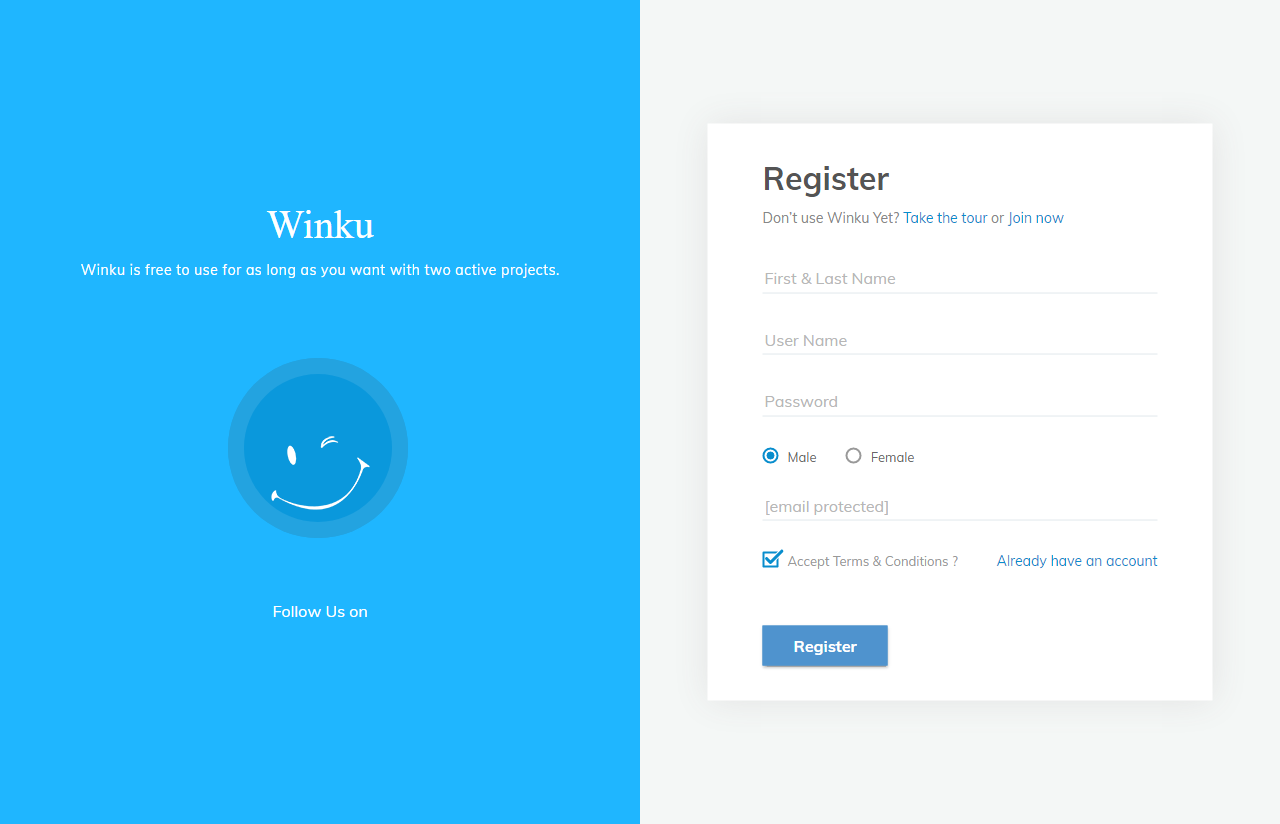
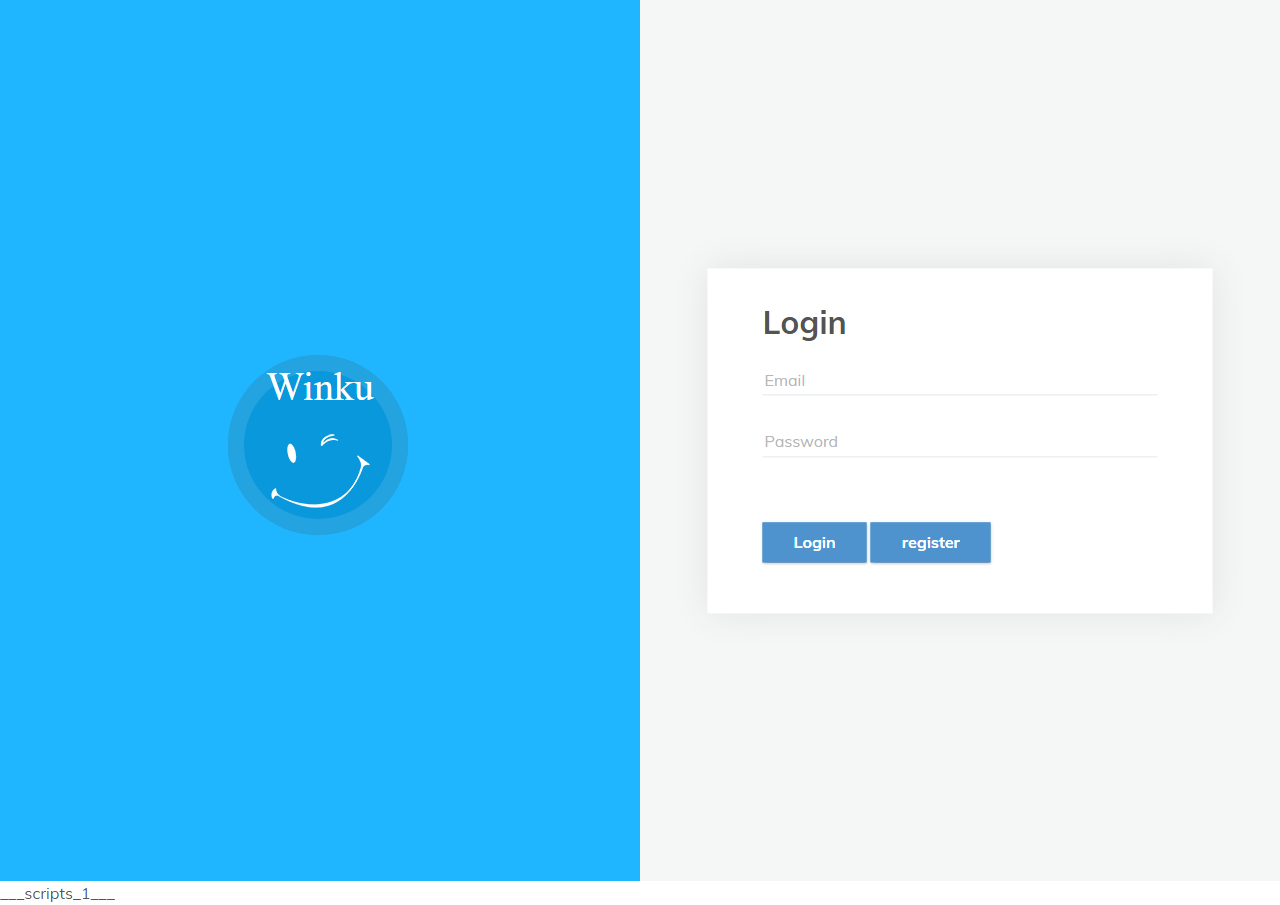
photos

diff --git a/resources/views/auth/register.blade.php b/resources/views/auth/register.blade.php
@@ -1,101 +1,3 @@
-{{-- @extends('layouts.app')
-
-@section('content')
-<div class="container">
-    <div class="row justify-content-center">
-        <div class="col-md-8">
-            <div class="card">
-                <div class="card-header">{{ __('Register') }}</div>
-
-                <div class="card-body">
-                    <form method="POST" action="{{ route('register') }}">
-                        @csrf
-
-                        <div class="row mb-3">
-                            <label for="name" class="col-md-4 col-form-label text-md-end">{{ __('Name') }}</label>
-
-                            <div class="col-md-6">
-                                <input id="name" type="text" class="form-control @error('name') is-invalid @enderror" name="name" value="{{ old('name') }}"  autocomplete="name" autofocus>
-
-                                @error('name')
-                                    <span class="invalid-feedback" role="alert">
-                                        <strong>{{ $message }}</strong>
-                                    </span>
-                                @enderror
-                            </div>
-                        </div>
-
-                        <div class="row mb-3">
-                            <label for="email" class="col-md-4 col-form-label text-md-end">{{ __('Email Address') }}</label>
-
-                            <div class="col-md-6">
-                                <input id="email" type="email" class="form-control @error('email') is-invalid @enderror" name="email" value="{{ old('email') }}"  autocomplete="email">
-
-                                @error('email')
-                                    <span class="invalid-feedback" role="alert">
-                                        <strong>{{ $message }}</strong>
-                                    </span>
-                                @enderror
-                            </div>
-                        </div>
-
-                        <div class="row mb-3">
-                            <label for="password" class="col-md-4 col-form-label text-md-end">{{ __('Password') }}</label>
-
-                            <div class="col-md-6">
-                                <input id="password" type="password" class="form-control @error('password') is-invalid @enderror" name="password"  autocomplete="new-password">
-
-                                @error('password')
-                                    <span class="invalid-feedback" role="alert">
-                                        <strong>{{ $message }}</strong>
-                                    </span>
-                                @enderror
-                            </div>
-                        </div>
-
-                        <div class="row mb-3">
-                            <label for="password-confirm" class="col-md-4 col-form-label text-md-end">{{ __('Confirm Password') }}</label>
-
-                            <div class="col-md-6">
-                                <input id="password-confirm" type="password" class="form-control" name="password_confirmation"  autocomplete="new-password">
-                            </div>
-                        </div>
-
-                        <div class="row mb-0">
-                            <div class="col-md-6 offset-md-4">
-                                <button type="submit" class="btn btn-primary">
-                                    {{ __('Register') }}
-                                </button>
-                            </div>
-                        </div>
-                    </form>
-                </div>
-            </div>
-        </div>
-    </div>
-</div>
-
-
-
-@endsection --}}
-
-
-
-
-
-
-
-
-
-
-
-
-
-
-
-
-
-
 
 <html lang="en" class=" ">
 

diff --git a/resources/views/auth/login.blade.php b/resources/views/auth/login.blade.php
@@ -1,76 +1,4 @@
-{{-- @extends('layouts.app')
 
-@section('content')
-<div class="container">
-    <div class="row justify-content-center">
-        <div class="col-md-8">
-            <div class="card">
-                <div class="card-header">{{ __('Login') }}</div>
-
-                <div class="card-body">
-                    <form method="POST" action="{{ route('login') }}">
-                        @csrf
-
-                        <div class="row mb-3">
-                            <label for="email" class="col-md-4 col-form-label text-md-end">{{ __('Email Address') }}</label>
-
-                            <div class="col-md-6">
-                                <input id="email" type="email" class="form-control @error('email') is-invalid @enderror" name="email" value="{{ old('email') }}" required autocomplete="email" autofocus>
-
-                                @error('email')
-                                    <span class="invalid-feedback" role="alert">
-                                        <strong>{{ $message }}</strong>
-                                    </span>
-                                @enderror
-                            </div>
-                        </div>
-
-                        <div class="row mb-3">
-                            <label for="password" class="col-md-4 col-form-label text-md-end">{{ __('Password') }}</label>
-
-                            <div class="col-md-6">
-                                <input id="password" type="password" class="form-control @error('password') is-invalid @enderror" name="password" required autocomplete="current-password">
-
-                                @error('password')
-                                    <span class="invalid-feedback" role="alert">
-                                        <strong>{{ $message }}</strong>
-                                    </span>
-                                @enderror
-                            </div>
-                        </div>
-
-                        <div class="row mb-3">
-                            <div class="col-md-6 offset-md-4">
-                                <div class="form-check">
-                                    <input class="form-check-input" type="checkbox" name="remember" id="remember" {{ old('remember') ? 'checked' : '' }}>
-
-                                    <label class="form-check-label" for="remember">
-                                        {{ __('Remember Me') }}
-                                    </label>
-                                </div>
-                            </div>
-                        </div>
-
-                        <div class="row mb-0">
-                            <div class="col-md-8 offset-md-4">
-                                <button type="submit" class="btn btn-primary">
-                                    {{ __('Login') }}
-                                </button>
-
-                                @if (Route::has('password.request'))
-                                    <a class="btn btn-link" href="{{ route('password.request') }}">
-                                        {{ __('Forgot Your Password?') }}
-                                    </a>
-                                @endif
-                            </div>
-                        </div>
-                    </form>
-                </div>
-            </div>
-        </div>
-    </div>
-</div>
-@endsection --}}
 <html lang="en" class=" ">
 
 <head>

diff --git a/resources/views/front/layouts/header.blade.php b/resources/views/front/layouts/header.blade.php
@@ -7,7 +7,7 @@
     <meta name="description" content="" />
     <meta name="keywords" content="" />
 	<title>Winku Social Network Toolkit</title>
-    <link rel="icon" href="images/fav.png" type="image/png" sizes="16x16">
+    <link rel="icon" href="{{asset('/front/')}}/images/fav.png" type="image/png" sizes="16x16">
 
     <link rel="stylesheet" href="{{asset('/front/')}}/css/main.min.css">
     <link rel="stylesheet" href="{{asset('/front/')}}/css/style.css">
